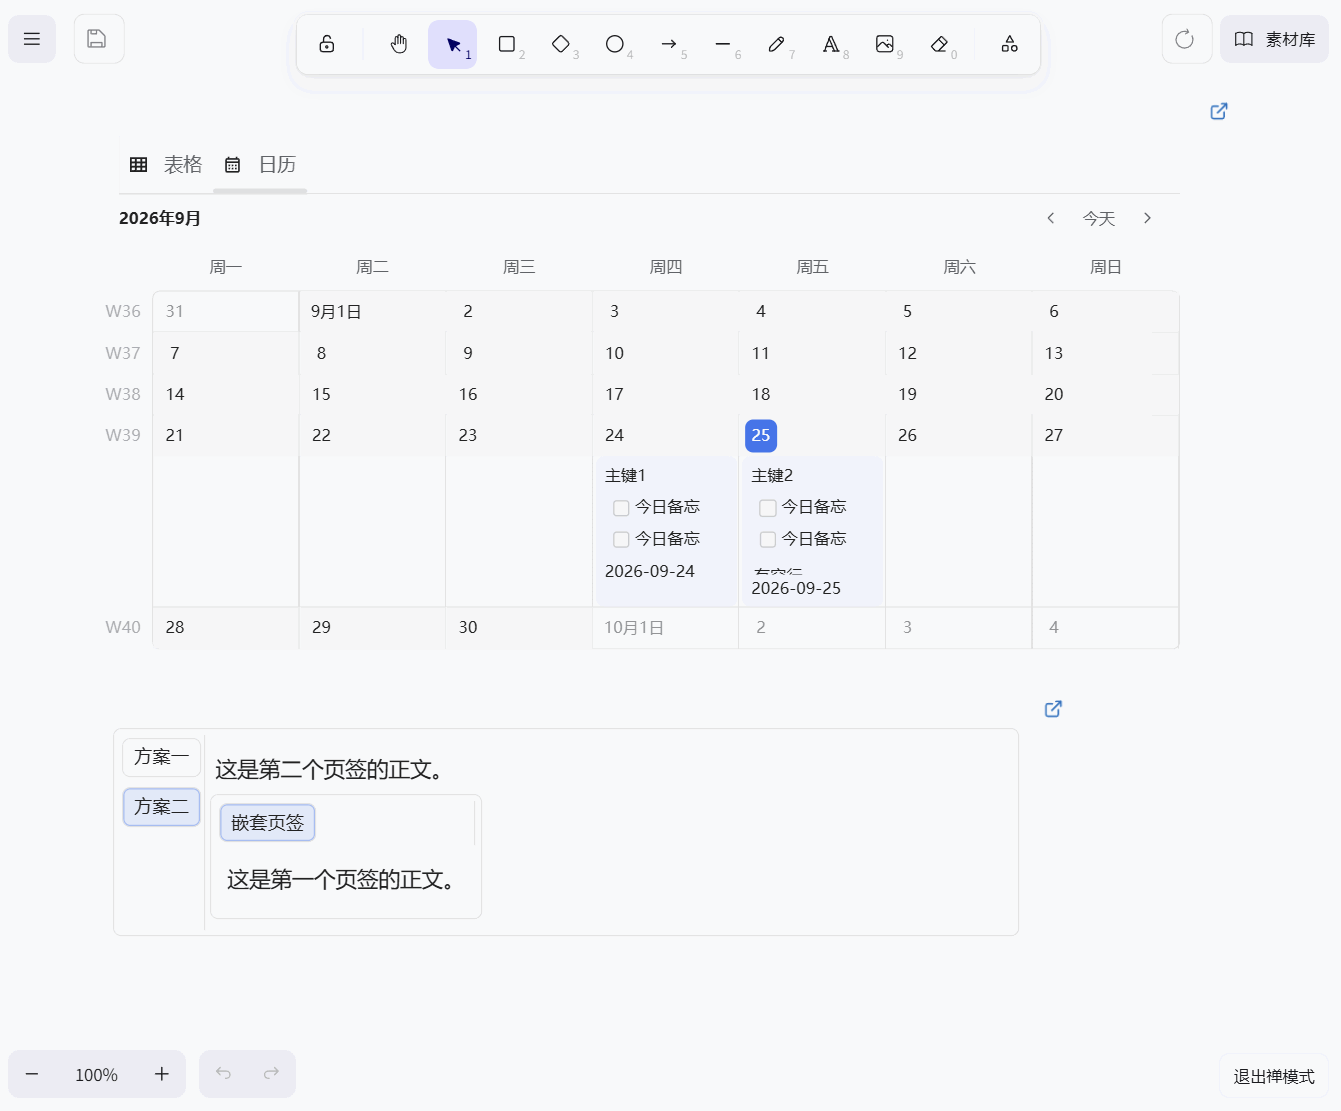
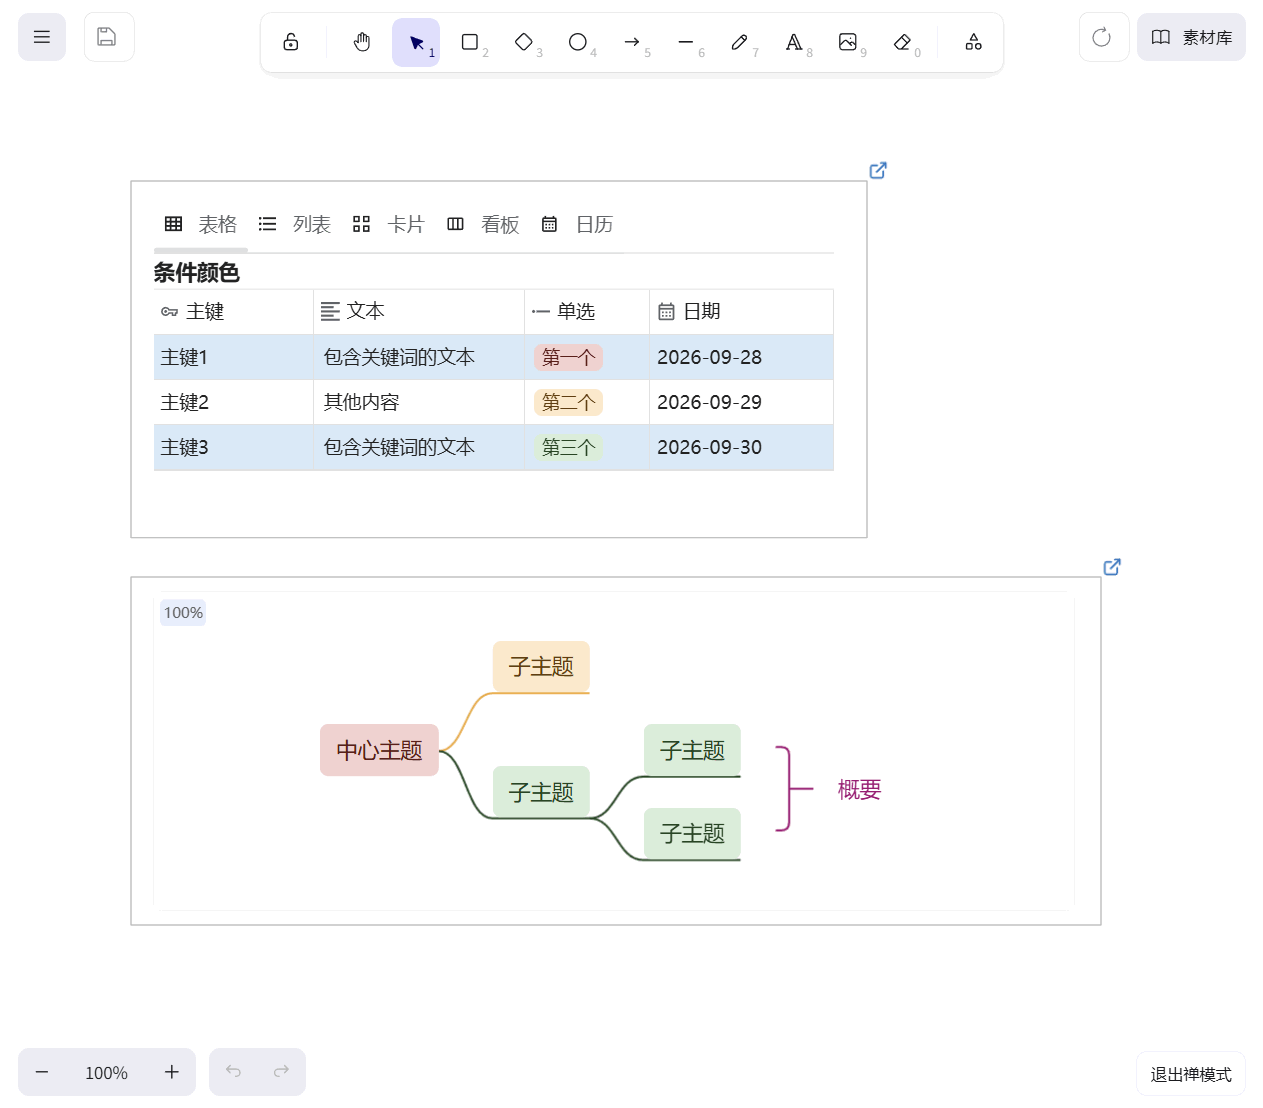
V2.1.14

diff --git a/theme/config.css b/theme/config.css
@@ -364,10 +364,15 @@ h1:has(+ .iframe[custom-data-assets*="/assets/ExcalidrawFiles/"]) {
     margin: 0;
 }
 
-.tabs[data-tabs-orientation="vertical"] .tabs-header {
+.tabs[data-tabs-orientation="vertical"]>.tabs-header {
     border-bottom: none;
     border-right: 1px solid var(--b3-theme-background-light);
     padding: 2px;
+}
+
+.tabs[data-tabs-orientation="horizontal"]>.tabs-header {
+    border-right: none;
+    border-bottom: 1px solid var(--b3-theme-background-light);
 }
 
 .tabs .tabs-tab-label {

diff --git a/index.html b/index.html
@@ -29,7 +29,7 @@
     catch (t) { console.error(t) }
   </script>
   <link rel="stylesheet" href="./custom.css">
-  <meta name="version" content="V2.1.13" />
+  <meta name="version" content="V2.1.14" />
   <script type="module" crossorigin src="./assets/index-ZsssFvwm.js"></script>
   <link rel="stylesheet" crossorigin href="./assets/index-DaQqI7hZ.css">
   <script src="./html-to-image.min.js" defer></script>

diff --git a/README_en_US.md b/README_en_US.md
@@ -5,9 +5,21 @@
 - After updating the widget, it may still load outdated files due to browser caching.Please follow the guide at [Refresh with Caching Disabled](https://github.com/BryceAndJuly/Whiteboard/issues/100) to perform a refresh.
 - When `Auto‑Save` is triggered, the mouse right‑click popup menu will close. If you find this interference too obtrusive, refer to the methods below to disable `Auto‑Save`  by default . (The shortcut to temporarily disable auto‑save is `Alt`+`F`.)
 
-> Updates are suspended here for now. I will complete the adaptation once the new software features stabilize after this rapid iteration period.
+> As a personal tool, the features I need are basically all updated. If you find any bugs while using the widget, you can report them on GitHub, and I’ll try to fix them.
+>
+> I hope this little tool can help people with the same needs.
 
 ## 1. Current Version
+### V2.1.14
+
+See the preview screenshot at the top. This release mainly addresses compatibility issues.
+Test environment: `SiYuan V3.8.6-beta.2`, `Windows 11`
+
+- Mind map: support for summaries. Ref: [#19871](https://github.com/siyuan-note/siyuan/issues/19871)
+- Mobile mind map: support two-finger pinch-to-zoom. Ref: [#19865](https://github.com/siyuan-note/siyuan/issues/19865)
+- Database views: support conditional background colors. Ref: [#19889](https://github.com/siyuan-note/siyuan/issues/19889)
+
+---
 
 ### V2.1.13
 
@@ -48,14 +60,6 @@ Notes on the list mind map mode:
 
 ---
 
-### V2.1.11
-
-See the preview image at the top. Test environment: `SiYuan V3.8.4-beta.1`, `Windows 11`
-
-- Support rendering custom blocks
-- Fixed text styles and task list styles in the database
-
----
 
 For the current version: 
 

diff --git a/README.md b/README.md
@@ -6,9 +6,20 @@
 - 触发`自动保存`时，鼠标右键弹出的菜单会被关闭，如果觉得这个干扰太大，可以参考下文中的方法默认关闭`自动保存`（临时关闭自动保存的快捷键是`Alt`+`F`）。
 
 
-> 暂时先更新到这里。待软件新功能经过这段快速迭代完善期、功能基本定型后，再进行适配。
+> 作为一个自用工具，目前个人需要的功能基本更新完了，如果发现挂件在使用上的BUG可以到Github上提，我会尽量修复的。
+>
+> 希望这个小工具能帮助到有同样需求的人。
 
 ## 一、当前版本
+### V2.1.14
+
+见顶部预览图，主要处理兼容性。测试环境：`SiYuan V3.8.6-beta.2` 、`Windows 11`
+
+- 思维导图支持概要。参考：[#19871](https://github.com/siyuan-note/siyuan/issues/19871)
+- 移动端思维导图支持双指缩放。参考：[#19865](https://github.com/siyuan-note/siyuan/issues/19865)
+- 数据库各视图支持条件背景色。参考： [#19889](https://github.com/siyuan-note/siyuan/issues/19889)
+
+---
 
 ### V2.1.13
 
@@ -47,15 +58,6 @@
 >
 >   - 移动画布：`鼠标左键按下`+`拖动`、`鼠标滚轮`、`Shift`+`鼠标滚轮`
 >   - 缩放画布：`Ctrl`+ `鼠标滚轮`
-
----
-
-### V2.1.11
-
-见顶部预览图。测试环境：`SiYuan V3.8.4-beta.1`、`Windows 11`
-
-- 支持渲染自定义块
-- 修复数据库中的文字样式与任务列表样式。
 
 ---
 
